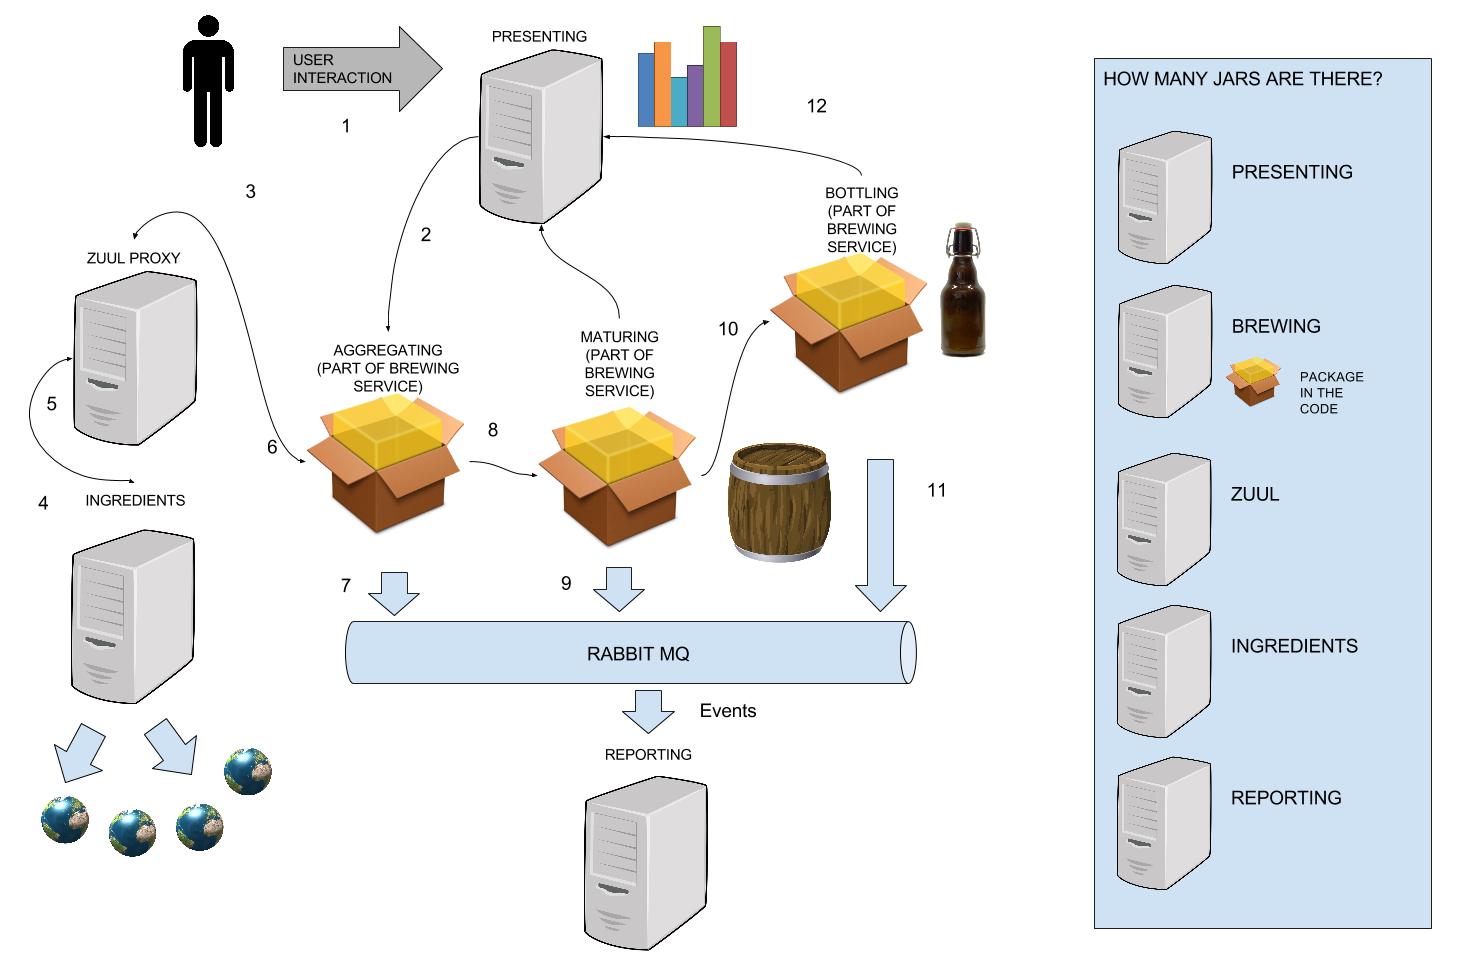
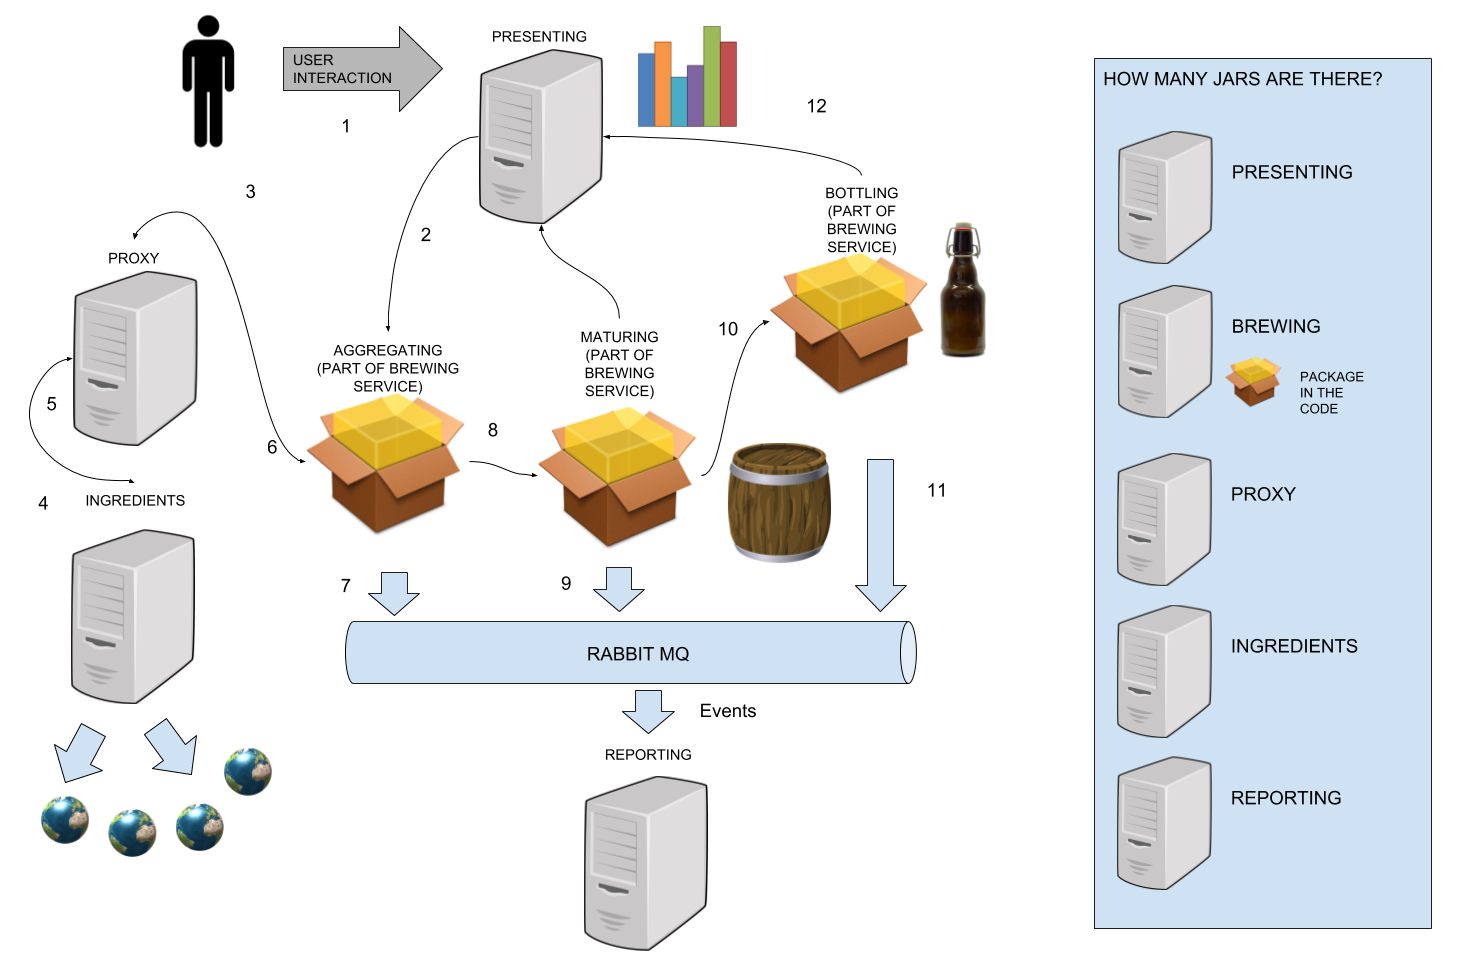
Add info in readme. Improve test run script setup.

diff --git a/presenting/src/main/java/io/spring/cloud/samples/brewery/presenting/feed/FeedRepository.java b/presenting/src/main/java/io/spring/cloud/samples/brewery/presenting/feed/FeedRepository.java
@@ -17,7 +17,6 @@ import java.util.concurrent.atomic.AtomicInteger;
 @Slf4j
 @Component
 public class FeedRepository {
-
 	final Set<Process> processes = Collections.synchronizedSet(new HashSet<>());
 
 	private AtomicInteger bottles = new AtomicInteger(0);

diff --git a/README.md b/README.md
@@ -41,7 +41,8 @@ Brewing service contains the following functionalities:
 #### Aggregating
 
 - Service contains a warehouse ("database") where is stores the ingredients
-- Basing on the order placed it will contact the Zuul proxy to fetch ingredients **(3)**
+- Basing on the order placed it will contact a proxy to fetch ingredients. If `whattotest` flag is set to `SLEUTH`, 
+  Spring Cloud Gateway will be used as proxy. If not, Zuul will be used **(3)**
 - Once the ingredients have been received an event is emitted **(7)**
 - You have to have all 4 ingredients reach their threshold (1000) to start maturing the beer 
 - Once the brewing has been started an event is emitted **(7)**
@@ -70,12 +71,13 @@ Brewing service contains the following functionalities:
 
 - Listens to events and stores them in the "database"
 
-### Zuul proxy
+### Proxy (Spring Cloud Gateway or Zuul)
 
 - Proxy over the "adapters" to external world to fetch ingredients
 - Routes all requests to the respective "ingredient adapter" **(4)**
 - For simplicity we have one ingredient adapter called "ingredients" that returns a stubbed quantity
 - Returns back the ingredients to the aggregating **(6)**
+- If `whattotest` flag is set to `SLEUTH`, Spring Cloud Gateway will be used as proxy. If not, Zuul will be used
 
 ## Project structure
 
@@ -94,7 +96,7 @@ Brewing service contains the following functionalities:
 ├── reporting        (service that listens to events)
 ├── zipkin-server    (Zipkin Server for Sleuth Stream tests)
 ├── zookeeper        (embedded zookeeper)
-└── zuul             (Zuul proxy that forwards requests to ingredients)
+└── proxy            (Spring Cloud Gateway or Zuul proxy that forwards requests to ingredients)
 ```
 
 ## How to build it?
